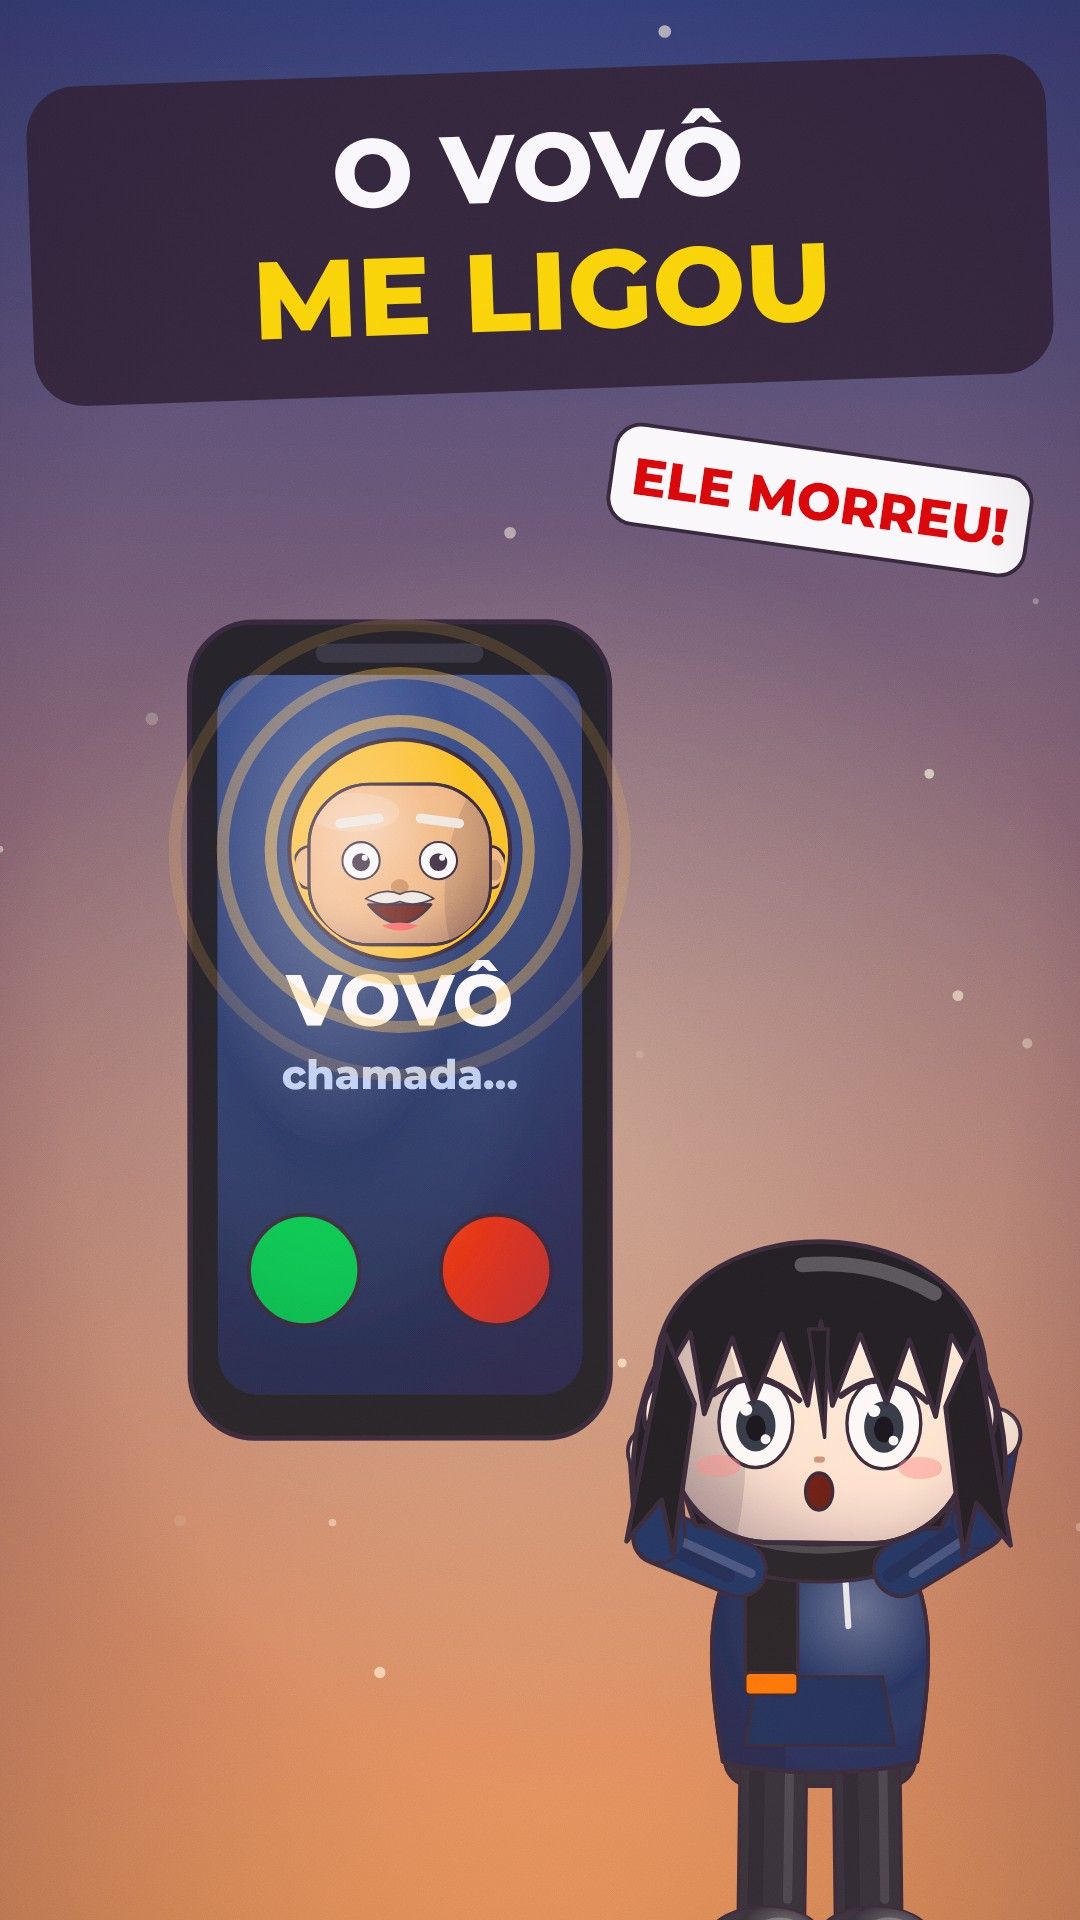
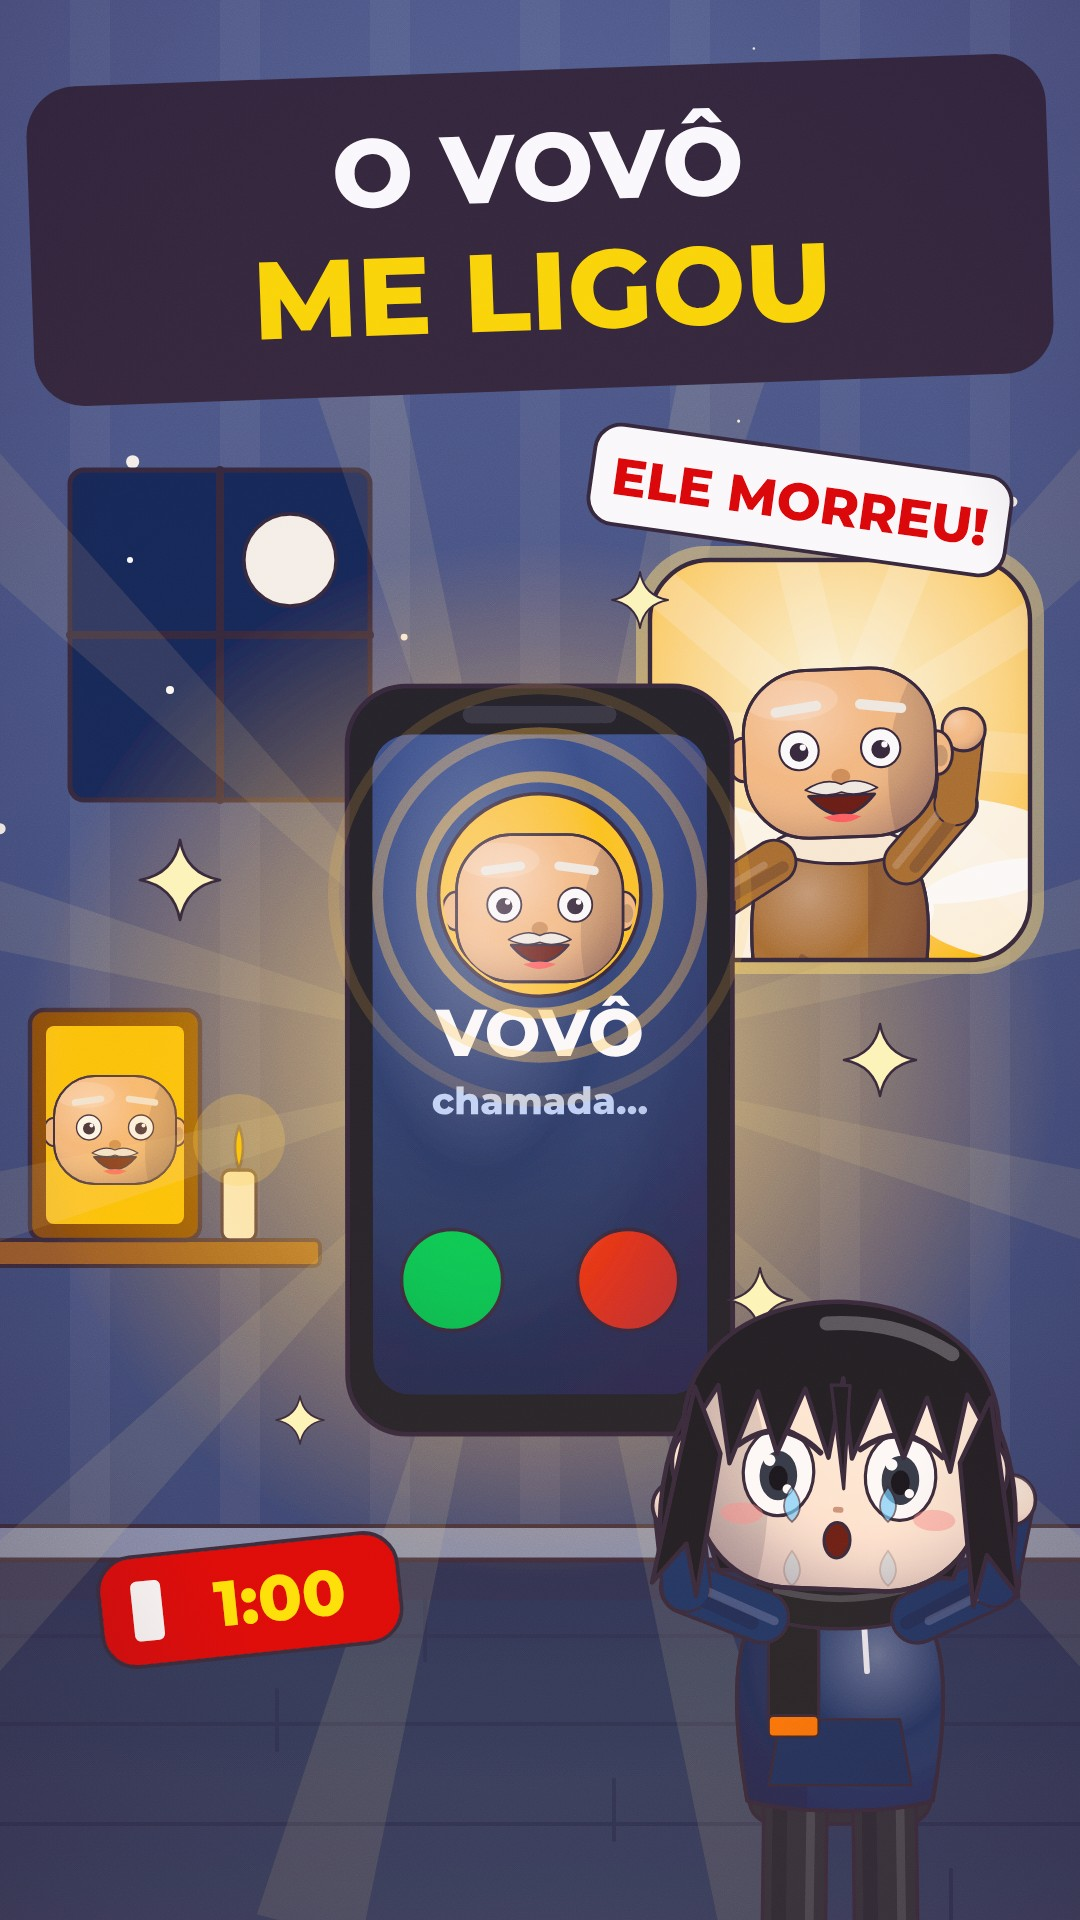
Capa mais detalhada: 'No dia em que os mortos puderam ligar'
Claude-Session: https://claude.ai/code/session_01LhtxzVH3qqLdbNSUbkPF4y

diff --git a/shorts-2d/mortos-ligar/capa_tail.js b/shorts-2d/mortos-ligar/capa_tail.js
@@ -5,12 +5,24 @@ const LOOK = `<defs><filter id="grade"><feColorMatrix type="saturate" values="1.
 <rect width="1080" height="1920" fill="url(#tint)"/><rect width="1080" height="1920" fill="url(#vig)"/><rect width="1080" height="1920" filter="url(#grain)" opacity="0.18" style="mix-blend-mode:overlay"/>`;
 function shadowT(x, y, s, size, fill, rot = 0) { return G(`translate(${x},${y}) rotate(${rot})`, T(0, size * 0.09, s, size, '#2E2433', size * 0.22) + T(0, 0, s, size, fill, size * 0.16)); }
 window.renderAt = function () {
-  ZID = 0;
-  let g = rays(0.3, '#2E3A6A', '#F0A070');
+  ZID = 0; TNOW = 0.7;
+  let g = room('#3A4670', '#2A3352', 1560);
+  g += stars(1.3) + windowFrame(70, 470, 300, 330, '#16224A') + C(290, 560, 46, '#F4F1EA', 6) + C(170, 690, 4, '#FFFFFF', 0) + C(130, 560, 3, '#FFFFFF', 0);
+  // estante com o porta-retrato do avô e a vela
+  g += R(-20, 1240, 340, 26, 6, '#8A5A3A', 7) + R(30, 1010, 170, 230, 14, '#7A4A2A', 8) + R(46, 1026, 138, 198, 8, '#F6C46A', 0) + clipG('<rect x="46" y="1026" width="138" height="198"/>', G('translate(115,1130) scale(0.5)', miniVovo('happy')));
+  g += R(222, 1170, 34, 70, 8, '#FFF6E0', 6) + P('M239,1170 q8,-24 0,-44 q-8,20 0,44', '#F2B636', 5) + C(239, 1140, 46, 'rgba(255,214,120,0.25)', 0);
+  // luz dourada saindo do celular
+  const id = 'cg';
+  g += `<radialGradient id="${id}"><stop offset="0" stop-color="#FFE9A8" stop-opacity="0.85"/><stop offset="1" stop-color="#FFB84A" stop-opacity="0"/></radialGradient>` + C(540, 1060, 520, `url(#${id})`, 0);
+  for (let k = 0; k < 12; k++) { const a = k / 12 * Math.PI * 2 + 0.2; g += P(`M540,1060 L${540 + Math.cos(a) * 900},${1060 + Math.sin(a) * 900} L${540 + Math.cos(a + 0.12) * 900},${1060 + Math.sin(a + 0.12) * 900}Z`, 'rgba(255,236,170,0.10)', 0); }
+  // o avô numa janela de luz (canto direito)
+  g += G('translate(0,0)', callPanel(840, 760, 380, 400, 0.5, { expr: 'happy', s: 0.62, hr: [170, -380] }));
+  g += bigPhone(540, 1060, 1.1, 0.33, 'ring');
+  for (const [x, y, s] of [[180, 880, 1.0], [760, 1300, 0.8], [640, 600, 0.7], [300, 1420, 0.6], [880, 1060, 0.9]]) g += sparkle(x, y, s);
+  g += KAIs({ x: 840, y: 1990, s: 1.05, sx: -1, expr: 'surprised', hl: [-170, -320], hr: [170, -320] }) + tears(840, 1990 - 474 * 1.05 * 1.28 + 120, 0.3, 0.8);
+  g += G('translate(250,1600) rotate(-6)', R(-150, -55, 300, 110, 34, '#C62A2A', 7) + R(-118, -30, 30, 60, 6, '#FFFFFF', 0) + T(30, 6, '1:00', 64, '#FFE14D'));
   g += G('translate(540,230) rotate(-2)', R(-510, -160, 1020, 320, 50, '#2E2433', 0) + shadowT(0, -55, 'O VOVÔ', 96, '#FFFFFF') + shadowT(0, 70, 'ME LIGOU', 110, '#F7D64A'));
-  g += G('translate(820,500) rotate(8)', R(-210, -50, 420, 100, 26, '#FFFFFF', 7) + T(0, 6, 'ELE MORREU!', 52, '#C62A2A'));
-  g += bigPhone(400, 1030, 1.2, 0.33, 'ring');
-  g += KAIs({ x: 820, y: 1960, s: 1.1, sx: -1, expr: 'surprised', hl: [-170, -320], hr: [170, -320] });
+  g += G('translate(800,500) rotate(8)', R(-210, -50, 420, 100, 26, '#FFFFFF', 7) + T(0, 6, 'ELE MORREU!', 52, '#C62A2A'));
   document.getElementById('s').innerHTML = `<rect width="1080" height="1920" fill="#000"/>` + `<defs><radialGradient id="vol" cx="0.32" cy="0.28" r="0.85"><stop offset="0" stop-color="#FFFFFF" stop-opacity="0.30"/><stop offset="0.45" stop-color="#FFFFFF" stop-opacity="0"/><stop offset="0.75" stop-color="#2A1838" stop-opacity="0.10"/><stop offset="1" stop-color="#2A1838" stop-opacity="0.32"/></radialGradient></defs><g filter="url(#grade)">` + g + '</g>' + LOOK;
 };
 window.DUR = DUR;
